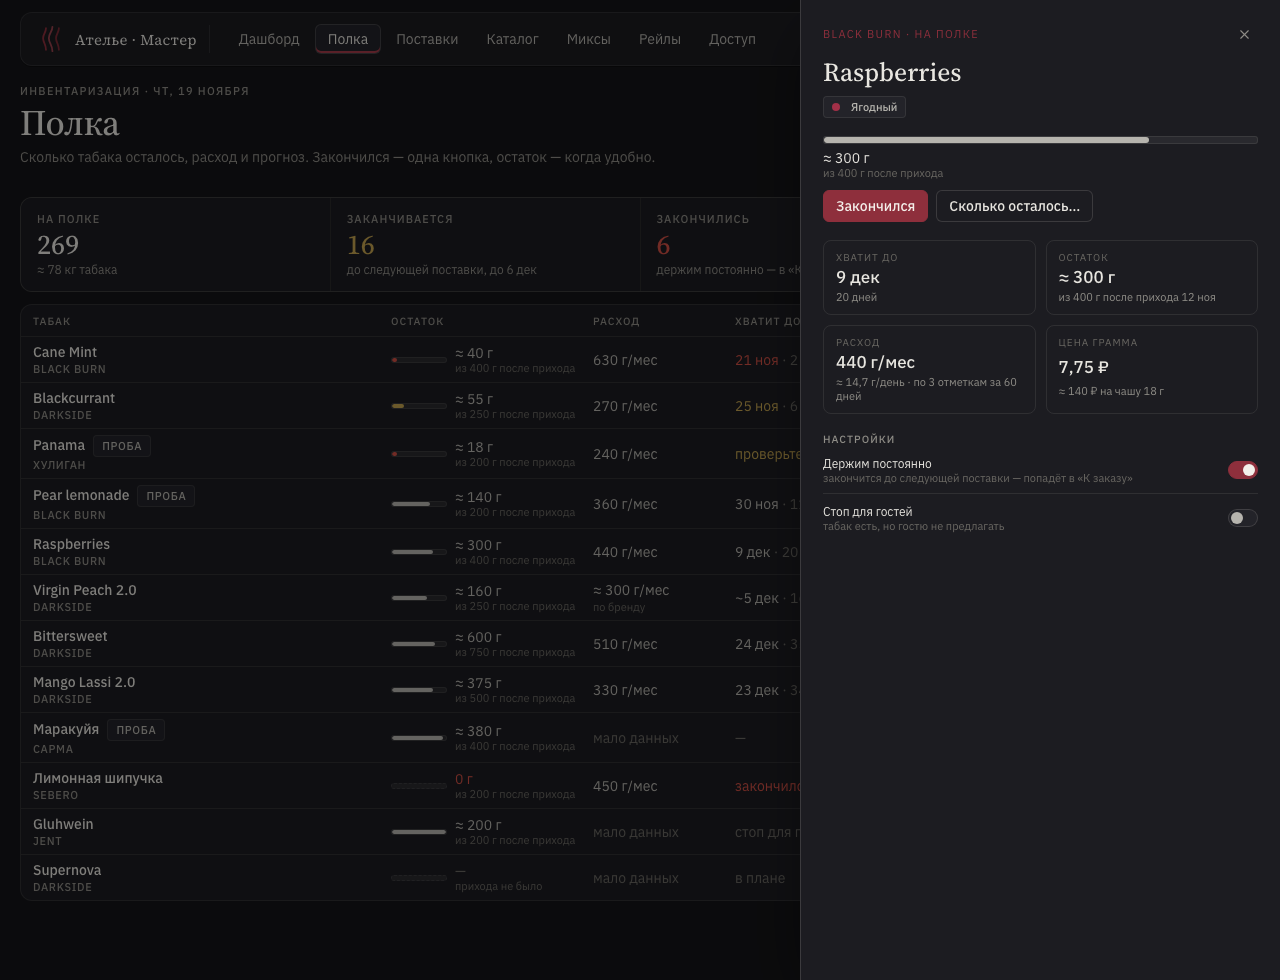
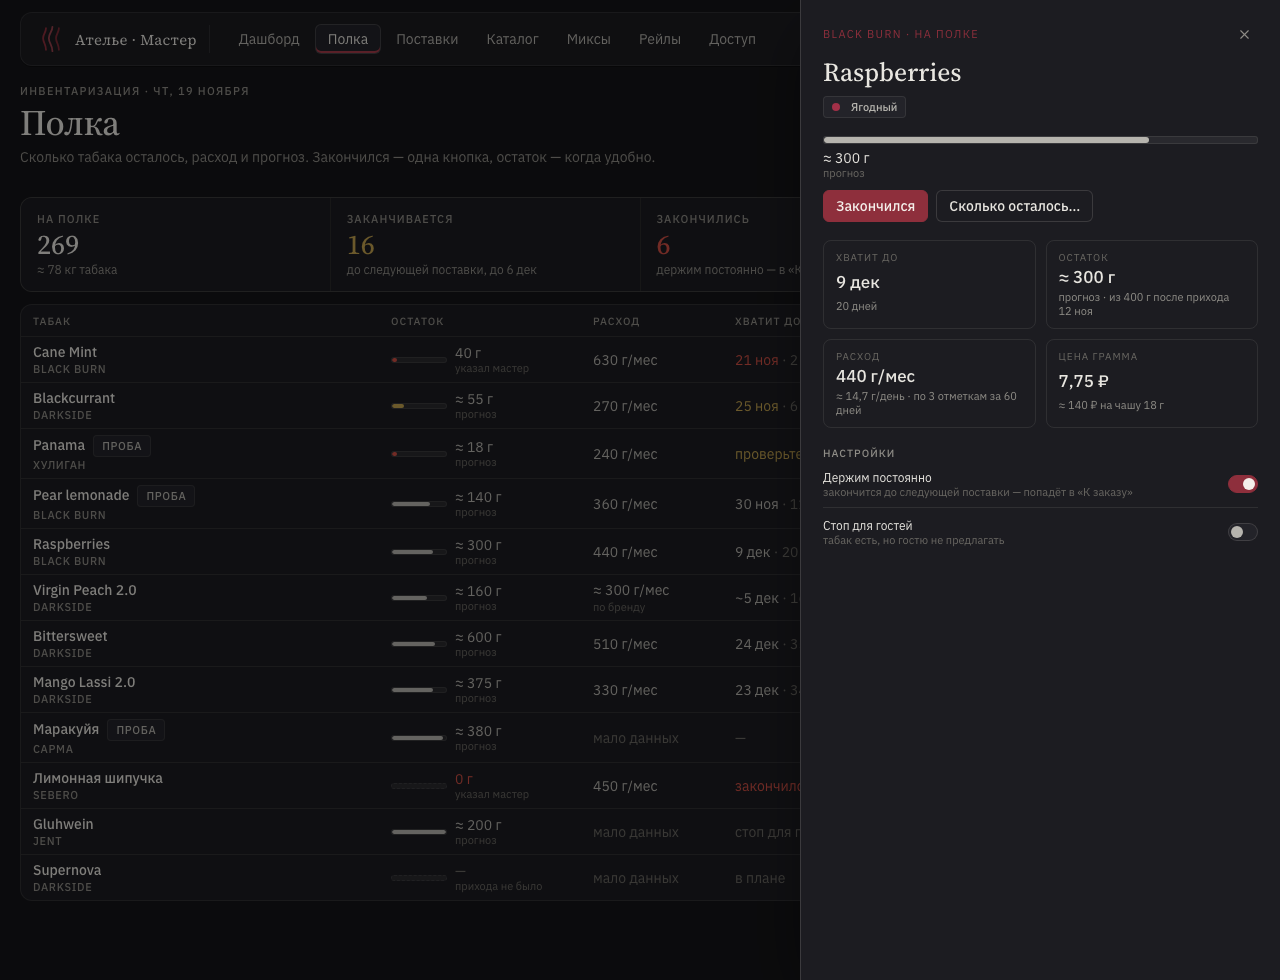
docs(design): мокап #324 — под остатком «прогноз» или «указал мастер»

diff --git a/design/design_handoff_purchase_analytics/board.jsx b/design/design_handoff_purchase_analytics/board.jsx
@@ -66,8 +66,8 @@ function Level({ row, lg }) {
     <span className={'lvl' + (lg ? ' lg' : '')}>
       <span className={'lvl-bar' + tone + (row.left === 0 ? ' none' : '')}><i style={{ width: Math.max(row.left ? 4 : 0, share * 100) + '%' }} /></span>
       <span className="lvl-copy">
-        <b className={row.left === 0 ? 'inv-danger' : ''}>{row.left === 0 ? '0 г' : '≈ ' + row.left + ' г'}</b>
-        <small>из {row.full} г после прихода</small>
+        <b className={row.left === 0 ? 'inv-danger' : ''}>{paExact(row) ? row.left + ' г' : '≈ ' + row.left + ' г'}</b>
+        <small>{paExact(row) ? 'указал мастер' : 'прогноз'}</small>
       </span>
     </span>
   );
@@ -87,6 +87,11 @@ function Until({ row }) {
   if (row.days == null) return <span className="inv-faint">—</span>;
   return <span className={'inv-num ' + (row.days <= 3 ? 'inv-danger' : row.days <= 7 ? 'inv-warn' : '')}>{row.until} <span className="inv-faint">· {row.days} дн</span></span>;
 }
+
+// Cane Mint мастер взвесил сегодня: 40 г — его отметка, не прогноз.
+const SHELF = GR.shelf.map((r) => (r.id === 'bb-cane' ? { ...r, markedToday: true } : r));
+// Остаток точный, пока его указал мастер: отметка сегодня или «Закончился».
+const paExact = (row) => row.left === 0 || !!row.markedToday;
 
 const PA_TRIAL_IDS = PA.trials.map((t) => t.id);
 const PA_FRACS = [['¾', 0.75], ['½', 0.5], ['⅓', 1 / 3], ['¼', 0.25]];
@@ -165,7 +170,7 @@ function ShelfTable({ onOpen, pop, setPop, onMark }) {
         { key: 'arrived', label: 'ПРИХОД', width: '118px', render: (r) => <span className="inv-name"><b style={{ fontWeight: 400, fontSize: 13 }}>{r.arrived}</b><span>{r.supplier}</span></span> },
         { key: 'actions', label: '', width: '200px', align: 'right', render: (r) => <Actions row={r} pop={pop} setPop={setPop} onMark={onMark} /> },
       ]}
-      rows={GR.shelf}
+      rows={SHELF}
     />
   );
 }
@@ -181,7 +186,7 @@ function TrialMark({ value, onChange, big }) {
 }
 
 function Drawer({ id, onClose, onMark }) {
-  const row = GR.shelf.find((r) => r.id === id);
+  const row = SHELF.find((r) => r.id === id);
   const trial = PA.trials.find((t) => t.id === id);
   const [mark, setMark] = React.useState(trial ? trial.mark : null);
   const [left, setLeft] = React.useState(false);
@@ -232,7 +237,7 @@ function Drawer({ id, onClose, onMark }) {
 
         <div className="inv-kv">
           <div><span>Хватит до</span><b>{row.until}</b><small>{row.days != null ? row.days + ' дней' : '—'}</small></div>
-          <div><span>Остаток</span><b>≈ {row.left} г</b><small>из {row.full} г после прихода {row.arrived}</small></div>
+          <div><span>Остаток</span><b>{paExact(row) ? '' : '≈ '}{row.left} г</b><small>{paExact(row) ? 'указал мастер сегодня' : 'прогноз'} · из {row.full} г после прихода {row.arrived}</small></div>
           <div><span>Расход</span><b>{row.rate ? (row.rateKind === 'brand' ? '≈ ' : '') + paMonth(row.rate) + ' г/мес' : <span className="inv-faint">мало данных</span>}</b><small>{row.rate ? '≈ ' + paNum(row.rate) + ' г/день' + (row.rateKind === 'brand' ? ' · по бренду' : rasp ? ' · по 3 отметкам за 60 дней' : '') : 'появится после первой отметки'}</small></div>
           <div><span>Цена грамма</span><b>7,75 ₽</b><small>≈ 140 ₽ на чашу 18 г</small></div>
         </div>
@@ -621,7 +626,7 @@ function MShelf({ sheet }) {
   const [mark, setMark] = React.useState(null);
   const [open, setOpen] = React.useState(sheet ? 'bb-rasp' : null);
   const [frac, setFrac] = React.useState(null);
-  const rows = GR.shelf.filter((r) => ['bb-cane', 'bb-pear', 'sr-passion', 'bb-rasp'].includes(r.id));
+  const rows = SHELF.filter((r) => ['bb-cane', 'bb-pear', 'sr-passion', 'bb-rasp'].includes(r.id));
   return (
     <div className="phone">
       <header className="m-top">
@@ -659,7 +664,7 @@ function MShelf({ sheet }) {
       </div>
       <nav className="m-nav"><span>Дашборд</span><span className="on">Полка</span><span>Поставки</span><span>Ещё</span></nav>
       {open ? (() => {
-        const row = GR.shelf.find((r) => r.id === open);
+        const row = SHELF.find((r) => r.id === open);
         return (
           <>
             <div className="m-scrim" onClick={() => setOpen(null)} />
@@ -696,7 +701,8 @@ const PA_SHOTS = [
   { id: 'reorder-copied', group: 'order', name: 'К заказу · текст заявки', note: 'Только названия — объём мастер впишет в чате сам.', start: 'shelf', init: { view: 'reorder', copied: true }, tall: true },
   { id: 'shelf', group: 'order', name: 'Полка', note: '#323. Колонка «Расход» — в г/мес, как в «К заказу» и карточке. «Заканчивается» — до следующей поставки. Новинки помечены «проба».', start: 'shelf' },
   { id: 'shelf-left', group: 'order', name: 'Полка · «Сколько осталось?»', note: 'Без изменений с #306: доля ¾ ½ ⅓ ¼ от уровня после прихода или точно в граммах.', start: 'shelf', init: { pop: 'bb-rasp' } },
-  { id: 'card', group: 'order', name: 'Карточка', note: '#323. Расход — г/мес, под ним г/день.', start: 'shelf', init: { drawer: 'bb-rasp' }, tall: true },
+  { id: 'card', group: 'order', name: 'Карточка · прогноз', note: '#323. Расход — г/мес, под ним г/день. Остаток «≈ … · прогноз»: отметка была 17 ноя, дальше — по расходу.', start: 'shelf', init: { drawer: 'bb-rasp' }, tall: true },
+  { id: 'card-exact', group: 'order', name: 'Карточка · указал мастер', note: 'Мастер взвесил сегодня: остаток без «≈», подпись «указал мастер».', start: 'shelf', init: { drawer: 'bb-cane' }, tall: true },
   { id: 'card-trial', group: 'order', name: 'Карточка пробы', note: '#329. Отметка «зашло / не зашло» — одно касание, можно поменять.', start: 'shelf', init: { drawer: 'bb-pear' }, tall: true },
   { id: 'settings', group: 'budget', name: 'Настройки полки', note: '#326. Бюджет на табак в ₽ в месяц — необязательное поле.', start: 'shelf', init: { view: 'reorder', settings: true } },
   { id: 'dashboard', group: 'budget', name: 'Дашборд · Деньги', note: '#326. Потрачено против бюджета, отметка базы, остаток на пробы.', start: 'dashboard' },

diff --git a/design/design_handoff_purchase_analytics/README.md b/design/design_handoff_purchase_analytics/README.md
@@ -44,7 +44,8 @@ python3 -m http.server 8765 --bind 127.0.0.1
 | `reorder-copied` | Текст заявки | #323 | только названия, «объём впишите сами» |
 | `shelf` | Полка | #323 | колонка «Расход» в г/мес; «Заканчивается» — до следующей поставки; метка «проба» |
 | `shelf-left` | Полка · «Сколько осталось?» | — | без изменений с #306: доля ¾ ½ ⅓ ¼ или точно в граммах |
-| `card` | Карточка | #323 | расход г/мес, под ним г/день; «Сколько осталось…» раскрывает доли |
+| `card` | Карточка · прогноз | #323 | расход г/мес, под ним г/день; остаток «≈ · прогноз»; «Сколько осталось…» раскрывает доли |
+| `card-exact` | Карточка · указал мастер | #323 | остаток без «≈», «указал мастер сегодня» |
 | `card-trial` | Карточка пробы | #329 | блок «Проба» с «Зашло / Не зашло» |
 | `settings` | Настройки полки | #326 | поле «Бюджет на табак, ₽ в месяц»; подпись про интервал |
 | `dashboard` | Дашборд · Деньги | #326 | потрачено против бюджета, отметка базы, остаток на пробы |
@@ -61,6 +62,8 @@ python3 -m http.server 8765 --bind 127.0.0.1
 | `edge-few` | Мало данных | все | вместо аналитики — когда она появится |
 
 Отметка остатка («осталось ½», точно в граммах, «Закончился») не меняется — работает как в #306.
+
+Под остатком — откуда цифра: **«указал мастер»** (без «≈») в день отметки «Осталось…» и после «Закончился», **«прогноз»** (с «≈») — во всех остальных случаях, включая дни после отметки.
 
 «Закупка» — третий вид на «Полке» рядом с «К заказу»: мастер решает о закупке там же, где смотрит, что заканчивается.
 
